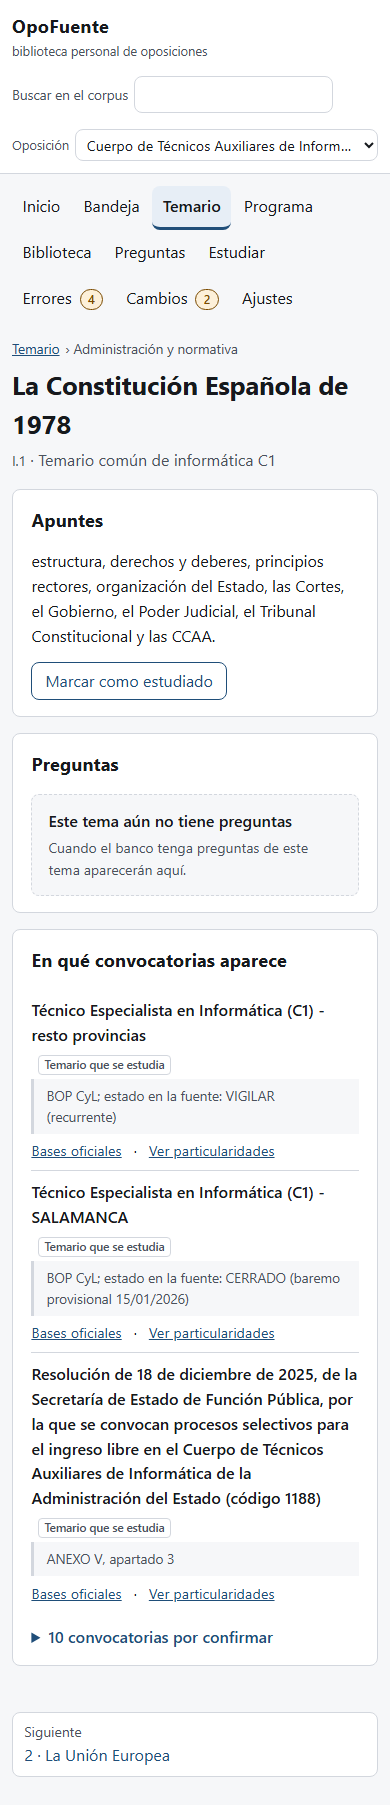
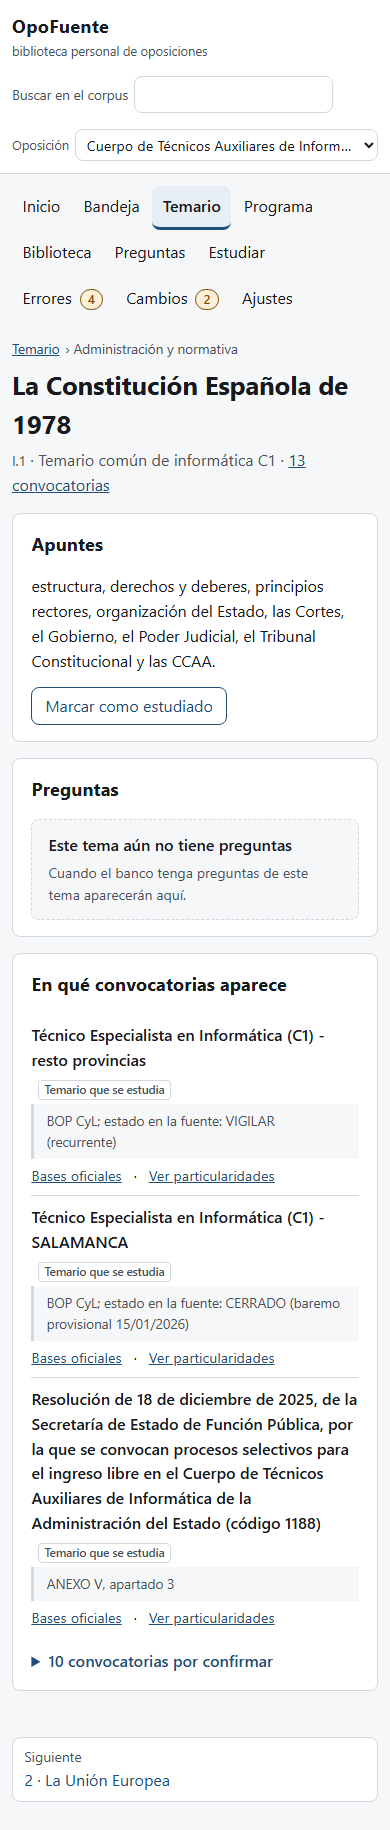
Temario: acceso directo a convocatorias y capturas renovadas
- La cabecera de la ficha enlaza a "En que convocatorias aparece" con el numero real de
  apariciones (13: 12 C1 y la referencia del TAI); con una sola aparicion dice "1 convocatoria"
  y sin apariciones no pinta el enlace.
- E2E: el enlace de la cabecera se compara con las apariciones que devuelve la API y apunta al
  ancla de la seccion.
- Capturas de la ficha regeneradas a 390 y 1280 px con la cabecera nueva; S13 y el LEEME
  actualizados con el recuento real.
- Puerta 18 en 52/52.

Sin GitHub Actions.

diff --git a/ESTADO-AGENTE.md b/ESTADO-AGENTE.md
@@ -1,7 +1,7 @@
 titulo: OpoFuente — temario comun de oposiciones de informatica C1
-resumen: Bloque 3 cerrado con E2E del temario en 52/52 y capturas nuevas en docs/capturas: indice y ficha con las 12 convocatorias C1, revisadas a 390 y 1280 px. B-017 queda bloqueada a proposito (alcance de S07) con D-029.
+resumen: Bloque 3 cerrado con E2E del temario en 52/52 y capturas nuevas en docs/capturas: indice y ficha con las 12 C1 y la referencia del TAI, acceso directo desde la cabecera, revisadas a 390 y 1280 px. B-017 queda bloqueada a proposito (alcance de S07) con D-029.
 estado: en-curso
-tarea: E2E y revision visual del temario con capturas persistentes; convocatorias C1 enlazadas verificadas; B-017 bloqueada
+tarea: E2E y revision visual del temario con capturas persistentes y acceso directo a las convocatorias desde la cabecera
 nivel: 2
 siguiente: decidir con David si B-017 es modo de estudio o vista del banco; mientras, actualizacion de version del temario y confirmacion de bases C1
 bloqueado: B-017 (simulacro por bloque) a la espera de decidir el alcance de S07; ver D-029

diff --git a/docs/slices/S13.md b/docs/slices/S13.md
@@ -182,8 +182,9 @@ Ejecutadas sobre `4f9d17f` con `./scripts/gates.ps1 -SkipE2e` (Windows, PowerShe
    (ver [`LEEME.md`](../capturas/LEEME.md)).
 4. Comprobado: `scrollWidth == innerWidth` en índice y ficha (cero scroll horizontal), sin
    solapamientos, con los estados vacíos legibles y sin lenguaje de desarrollo. La ficha de 390 px
-   mide 1 805 px de alto y enseña apuntes, preguntas y las 12 convocatorias (2 confirmadas y 10 por
-   confirmar).
+   mide 1 830 px de alto y enseña apuntes, preguntas y las **13 apariciones**: 3 confirmadas (las 2
+   C1 y la referencia del TAI al común) y 10 por confirmar. La cabecera lleva a esa sección con el
+   número real.
 5. Servidores y navegador cerrados; `.e2e-data` y `test-results` limpios. **No se deja ningún
    servidor ni navegador abierto.**
 

diff --git a/docs/capturas/LEEME.md b/docs/capturas/LEEME.md
@@ -15,7 +15,7 @@ $env:OPOFUENTE_CAPTURAS_DIR = (Join-Path (Get-Location) 'docs/capturas')
 |---|---|
 | `temario-indice-390.png` | índice del temario a 390×844: 5 bloques, 40 temas, búsqueda y avance |
 | `temario-indice-1280.png` | el mismo índice en escritorio a 1280×900 |
-| `temario-ficha-390.png` | ficha del tema 1 a 390×844: apuntes, preguntas, convocatorias C1 y enlaces oficiales |
+| `temario-ficha-390.png` | ficha del tema 1 a 390×844: apuntes, preguntas, las 12 convocatorias C1 y la referencia del TAI, con sus enlaces oficiales |
 | `temario-ficha-1280.png` | la misma ficha en escritorio a 1280×900 |
 
 La prueba comprueba, con esas mismas vistas, que `scrollWidth` no supera el ancho de la ventana

diff --git a/WALL.md b/WALL.md
@@ -62,4 +62,5 @@ calcula en el servidor y se pinta en la misma pantalla.
   convocatorias C1 enlazadas y accesibilidad), con capturas a 390 y 1280 px; puerta 18 en **52/52**.
 - [ ] B-017 (simulacro por bloque): **bloqueada** a propósito (Nivel 3, alcance de S07); ver D-029.
 - [x] Capturas de la revisión visual (2026-11-08): índice y ficha a 390/1280 px en
-  `docs/capturas/`, con su `LEEME.md` y enlazadas desde `S13.md`.
+  `docs/capturas/`, con su `LEEME.md` y enlazadas desde `S13.md`. La cabecera de la ficha lleva
+  directamente a sus convocatorias con el número real.
